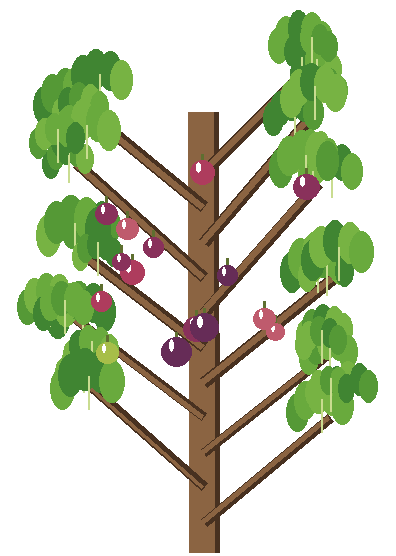
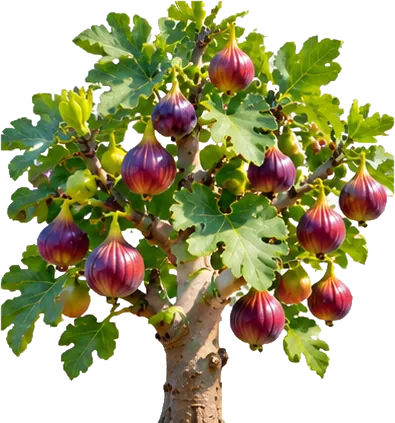
V14.5 試作（test.html）：溫室寫實遠景 gh-bg-<階段>＋寫實單棵樹（友軍預覽素材）；有圖用圖、沒圖退回程式畫
Claude-Session: https://claude.ai/code/session_01CqeieRWMUFwXZe9jxa6gye

diff --git a/test.html b/test.html
@@ -2593,6 +2593,8 @@ function openGH3D(zid){
     const moving = Math.abs(mvz)+Math.abs(mvx) > .01; if(moving) G.walk += (Math.abs(mvz)+Math.abs(mvx))*2.2;
     const camZ = G.pz-5.5, camX = G.px, camY = 2.1, hz = H*.4, f = W*.85;
     const pj = (x,y,zz)=>{ const dz = zz-camZ; if(dz<.4) return null; const s = f/dz; return {x:W/2+(x-camX)*s, y:hz+(camY-y)*s, s}; };
+    const quad = (x1,x2,col)=>{ const a=pj(x1,0,camZ+.6), b=pj(x2,0,camZ+.6), c=pj(x2,0,Math.min(LEN,camZ+46)), d=pj(x1,0,Math.min(LEN,camZ+46)); if(!a||!b||!c||!d) return; cx.fillStyle=col; cx.beginPath(); cx.moveTo(a.x,a.y); cx.lineTo(b.x,b.y); cx.lineTo(c.x,c.y); cx.lineTo(d.x,d.y); cx.fill(); };
+    if(!ghBg(cx, W, H, hz, z.stage, G.pz/LEN, camX)){
     ghSky(cx, W, hz);
     cx.fillStyle = '#9C7C5A'; cx.fillRect(0,hz,W,H-hz);
     const halfW = XMAX + 1.5;
@@ -2600,11 +2602,11 @@ function openGH3D(zid){
       for(let x=-halfW; x<=halfW; x+=1){ const p = pj(x, 3.1+2.2*(1-(x/halfW)**2), az); if(!p) continue; st ? cx.lineTo(p.x,p.y) : cx.moveTo(p.x,p.y); st = true; }
       cx.strokeStyle = 'rgba(90,100,110,.35)'; cx.lineWidth = Math.max(1.4, 95/(az-camZ)); cx.stroke(); cx.strokeStyle = 'rgba(240,246,250,.95)'; cx.lineWidth = Math.max(1, 60/(az-camZ)); cx.stroke(); }
     for(let q=-4;q<=4;q++){ const x = q/4*halfW*.92, y = 3.1+2.2*(1-(x/halfW)**2), a = pj(x,y,camZ+.6), b = pj(x,y,Math.min(LEN+.5,camZ+44)); if(a&&b){ cx.strokeStyle = 'rgba(225,235,242,.55)'; cx.lineWidth = 1; cx.beginPath(); cx.moveTo(a.x,a.y); cx.lineTo(b.x,b.y); cx.stroke(); } }
-    const quad = (x1,x2,col)=>{ const a=pj(x1,0,camZ+.6), b=pj(x2,0,camZ+.6), c=pj(x2,0,Math.min(LEN,camZ+46)), d=pj(x1,0,Math.min(LEN,camZ+46)); if(!a||!b||!c||!d) return; cx.fillStyle=col; cx.beginPath(); cx.moveTo(a.x,a.y); cx.lineTo(b.x,b.y); cx.lineTo(c.x,c.y); cx.lineTo(d.x,d.y); cx.fill(); };
     for(let i=0;i<ROWX.length-1;i++){ const m = (ROWX[i]+ROWX[i+1])/2; quad(m-.95, m+.95, '#E7D8B6'); quad(m-.95, m-.88, '#CDBB98'); quad(m+.88, m+.95, '#CDBB98'); }
     ROWX.forEach(x=>{ quad(x-.72, x+.72, '#2B2F33'); quad(x-.5, x-.38, '#4A5258'); quad(x+.3, x+.36, '#3E454B'); });
     [-halfW, halfW].forEach(x=>{ const a=pj(x,0,camZ+.6), b=pj(x,0,Math.min(LEN,camZ+44)), c=pj(x,3.1,Math.min(LEN,camZ+44)), d=pj(x,3.1,camZ+.6); if(a&&b&&c&&d){ cx.fillStyle='rgba(235,245,232,.55)'; cx.beginPath(); cx.moveTo(a.x,a.y); cx.lineTo(b.x,b.y); cx.lineTo(c.x,c.y); cx.lineTo(d.x,d.y); cx.fill(); } });
     const back = pj(0,0,LEN+.5); if(back){ const tl = pj(-halfW,3.1,LEN+.5), br = pj(halfW,0,LEN+.5); if(tl&&br){ cx.fillStyle='rgba(225,238,220,.9)'; cx.fillRect(tl.x, tl.y, br.x-tl.x, br.y-tl.y); } }
+    }
     const tapped = (P.daily.tapped && P.daily.tapped[zid]) || [], res = P.daily['res_'+zid] || {};
     const items = [];
     ROWX.forEach((x,r)=>{ if(Math.abs(x-camX) > 12) return; for(let k=0;k<L.n;k++){ const zz = 2.5 + k*GH_STEP; if(zz < camZ+.8 || zz > camZ+34) continue; items.push({x, z:zz, r, k, idx:TRE[r+'_'+k]}); } });
@@ -4922,11 +4924,21 @@ function ghShadow(cx, pj, x, z, h){ const p = pj(x+.45, 0, z+.25); if(!p || p.s 
 // 素材只要換 art/gh/ 裡的圖檔即可，不用改程式：fig-<階段>.webp 為主圖，可另加 fig-<階段>-2.webp、-3.webp 當變化（沒有就自動略過）
 const GH_ART = (()=>{
   const out={};
-  for(const key of ['prune','set','ripe']){
+  for(const key of ['prune','set','ripe','winter']){
     out[key] = ['', '-2', '-3'].map(v=>{ const im=new Image(); im.decoding='async'; im.src='art/gh/fig-'+key+v+'.webp'; return im; });
   }
   return out;
 })();
+/* V14.5：溫室寫實遠景（art/gh/gh-bg-<階段>.webp，1080×1920）。有圖就畫遠景、不畫程式的拱頂與地面；沒圖照舊 */
+const GH_BG = (()=>{ const o={}; ['prune','set','ripe','winter'].forEach(k=>{ const im=new Image(); im.decoding='async'; im.src='art/gh/gh-bg-'+k+'.webp'; o[k]=im; }); return o; })();
+const ghStageKey = st => st==='度冬'?'winter':st==='剪枝'?'prune':st==='座果'?'set':'ripe';
+function ghBg(cx, W, H, hz, stage, prog, camX){
+  const im = GH_BG[ghStageKey(stage)]; if(!im || !im.complete || !im.naturalWidth) return false;
+  const k = Math.max(W/im.naturalWidth, (H-hz)/(im.naturalHeight*.5), hz/(im.naturalHeight*.5)) * (1.04 + .22*Math.max(0,Math.min(1,prog)));
+  const dw = im.naturalWidth*k, dh = im.naturalHeight*k;
+  const dx = Math.max(W-dw, Math.min(0, W/2 - dw/2 - camX*k*30)), dy = hz - dh*.5;
+  cx.drawImage(im, dx, dy, dw, dh); return true;
+}
 /* 巡園 V14.3 視覺層：獨立度冬休眠枝條，不影響階段、判定或遊戲資料。 */
 function ghWinterTree(cx,pj,x,z,s,seed){
   const foot=pj(x,0,z), top=pj(x,.5,z); if(!foot||!top)return;
@@ -4948,11 +4960,11 @@ function ghWinterTree(cx,pj,x,z,s,seed){
   cx.restore();
 }
 function drawFigTree(cx, pj, x, z, s, stage, seed, rustle){
-  if(stage==='度冬'){ ghWinterTree(cx,pj,x,z,s,seed); return; }
-  const pool = GH_ART[stage==='剪枝'?'prune':stage==='座果'?'set':'ripe'].filter(im=>im.complete && im.naturalWidth>0);
+  if(stage==='度冬' && !(GH_ART.winter[0].complete && GH_ART.winter[0].naturalWidth)){ ghWinterTree(cx,pj,x,z,s,seed); return; }
+  const pool = GH_ART[ghStageKey(stage)].filter(im=>im.complete && im.naturalWidth>0);
   const sprite = pool.length ? pool[Math.abs(seed|0) % pool.length] : {complete:false};
   if(sprite.complete && sprite.naturalWidth>0){
-    const T=stageTree(stage), foot=pj(x,0,z), crown=pj(x,T.h,z);
+    const T=stageTree(stage), VH = {prune:1.6,set:2.1,ripe:2.6,winter:1.6}[ghStageKey(stage)], foot=pj(x,0,z), crown=pj(x,Math.max(T.h,VH),z);   // 寫實樹圖畫得跟遠景一樣高（只是外觀，點擊範圍不變）
     if(foot && crown && foot.s>=6){
       const height=foot.y-crown.y; const width=height*(sprite.naturalWidth/sprite.naturalHeight);
       cx.save(); cx.translate(foot.x,foot.y); cx.rotate((rustle||0)*.055);
@@ -5111,16 +5123,18 @@ function openEmerald(){
     const moving = Math.abs(mvz)+Math.abs(mvx) > .01; if(moving) EM.walk += (Math.abs(mvz)+Math.abs(mvx))*2.2;
     const camZ = EM.pz-5.5, camX = EM.px, camY = 2.1, hz = H*.4, f = W*.85;
     const pj = (x,y,z)=>{ const dz=z-camZ; if(dz<.4) return null; const s=f/dz; return {x:W/2+(x-camX)*s, y:hz+(camY-y)*s, s}; };
+    const quad=(x1,x2,col)=>{ const a=pj(x1,0,camZ+.6), b=pj(x2,0,camZ+.6), c=pj(x2,0,camZ+50), d=pj(x1,0,camZ+50); if(!a||!b||!c||!d) return; cx.fillStyle=col; cx.beginPath(); cx.moveTo(a.x,a.y); cx.lineTo(b.x,b.y); cx.lineTo(c.x,c.y); cx.lineTo(d.x,d.y); cx.fill(); };
+    if(!ghBg(cx, W, H, hz, z6.stage, EM.pz/EM_LEN, camX)){
     ghSky(cx, W, hz);
     cx.fillStyle='#9C7C5A'; cx.fillRect(0,hz,W,H-hz);
     for(let az=Math.ceil(camZ/4)*4; az<camZ+48; az+=4){ cx.beginPath(); let st=false;
       for(let x=-20;x<=20;x+=2){ const p=pj(x, 3.2+4.6*(1-(x/20)**2), az); if(!p) continue; st ? cx.lineTo(p.x,p.y) : cx.moveTo(p.x,p.y); st=true; }
       cx.strokeStyle='rgba(90,100,110,.35)'; cx.lineWidth=Math.max(1.4, 105/(az-camZ)); cx.stroke(); cx.strokeStyle='rgba(240,246,250,.95)'; cx.lineWidth=Math.max(1, 66/(az-camZ)); cx.stroke(); }
     ROWS.filter(x=>Math.abs(x-camX)<14).forEach(x=>{ const a=pj(x,3.4,camZ+1), b=pj(x,3.4,camZ+48); if(a&&b){ cx.strokeStyle='rgba(120,130,130,.55)'; cx.lineWidth=1.3; cx.beginPath(); cx.moveTo(a.x,a.y); cx.lineTo(b.x,b.y); cx.stroke(); } });
-    const quad=(x1,x2,col)=>{ const a=pj(x1,0,camZ+.6), b=pj(x2,0,camZ+.6), c=pj(x2,0,camZ+50), d=pj(x1,0,camZ+50); if(!a||!b||!c||!d) return; cx.fillStyle=col; cx.beginPath(); cx.moveTo(a.x,a.y); cx.lineTo(b.x,b.y); cx.lineTo(c.x,c.y); cx.lineTo(d.x,d.y); cx.fill(); };
     quad(-.95,.95,'#E7D8B6'); AISLE.forEach(x=>{ quad(-x-.15,-x+.15,'#2B2F33'); quad(x-.15,x+.15,'#2B2F33'); });
     [-.95,.95].forEach(x=>{ const a=pj(x,0,camZ+.6), b=pj(x,0,camZ+50); if(a&&b){ cx.strokeStyle='#E8DCC4'; cx.lineWidth=2; cx.beginPath(); cx.moveTo(a.x,a.y); cx.lineTo(b.x,b.y); cx.stroke(); } });
     [-19.8,19.8].forEach(x=>{ if(Math.abs(x-camX)<16){ const a=pj(x,0,camZ+.6), b=pj(x,0,camZ+48), c=pj(x,3.2,camZ+48), d=pj(x,3.2,camZ+.6); if(a&&b&&c&&d){ cx.fillStyle='rgba(235,245,232,.55)'; cx.beginPath(); cx.moveTo(a.x,a.y); cx.lineTo(b.x,b.y); cx.lineTo(c.x,c.y); cx.lineTo(d.x,d.y); cx.fill(); } } });
+    }
     const items = [];
     ROWS.forEach(x=>{ if(Math.abs(x-camX)>13) return; for(let z=Math.ceil((camZ+1)/1.375)*1.375; z<camZ+32; z+=1.375) items.push({x, z, k:'t'}); });
     for(let i=0;i<5;i++) [['A',-1.15],['B',1.15]].forEach(([n,x])=>items.push({x, z:i*EM_ZL+1.2, k:'sign', n:n+(i+1)}));

diff --git a/README.md b/README.md
@@ -16,7 +16,8 @@ art/                  所有圖檔（只換圖不用改程式）
   map/kingdom-sky-mask.png   地圖遮罩：晚上只讓天空變暗
   chars/<角色>.webp          16 位 3D 角色（awu、alien、robot、hero、apo、knight、cat、teddy、
                              dog、kiki、turtle、hen、poodle、golden、shiba、bunny）
-  gh/fig-<階段>.webp         溫室裡的樹：prune 剪枝、set 座果、ripe 採收（度冬由程式畫枯枝）
+  gh/fig-<階段>.webp         溫室裡的樹：prune 剪枝、set 座果、ripe 採收、winter 度冬
+  gh/gh-bg-<階段>.webp       溫室寫實遠景（1080×1920），同樣四個階段
                              （可加 -2、-3 變化圖，自動輪流）
 
 firestore.rules       目前已發布的 Firestore 規則（存檔，改規則從這份接著改）
